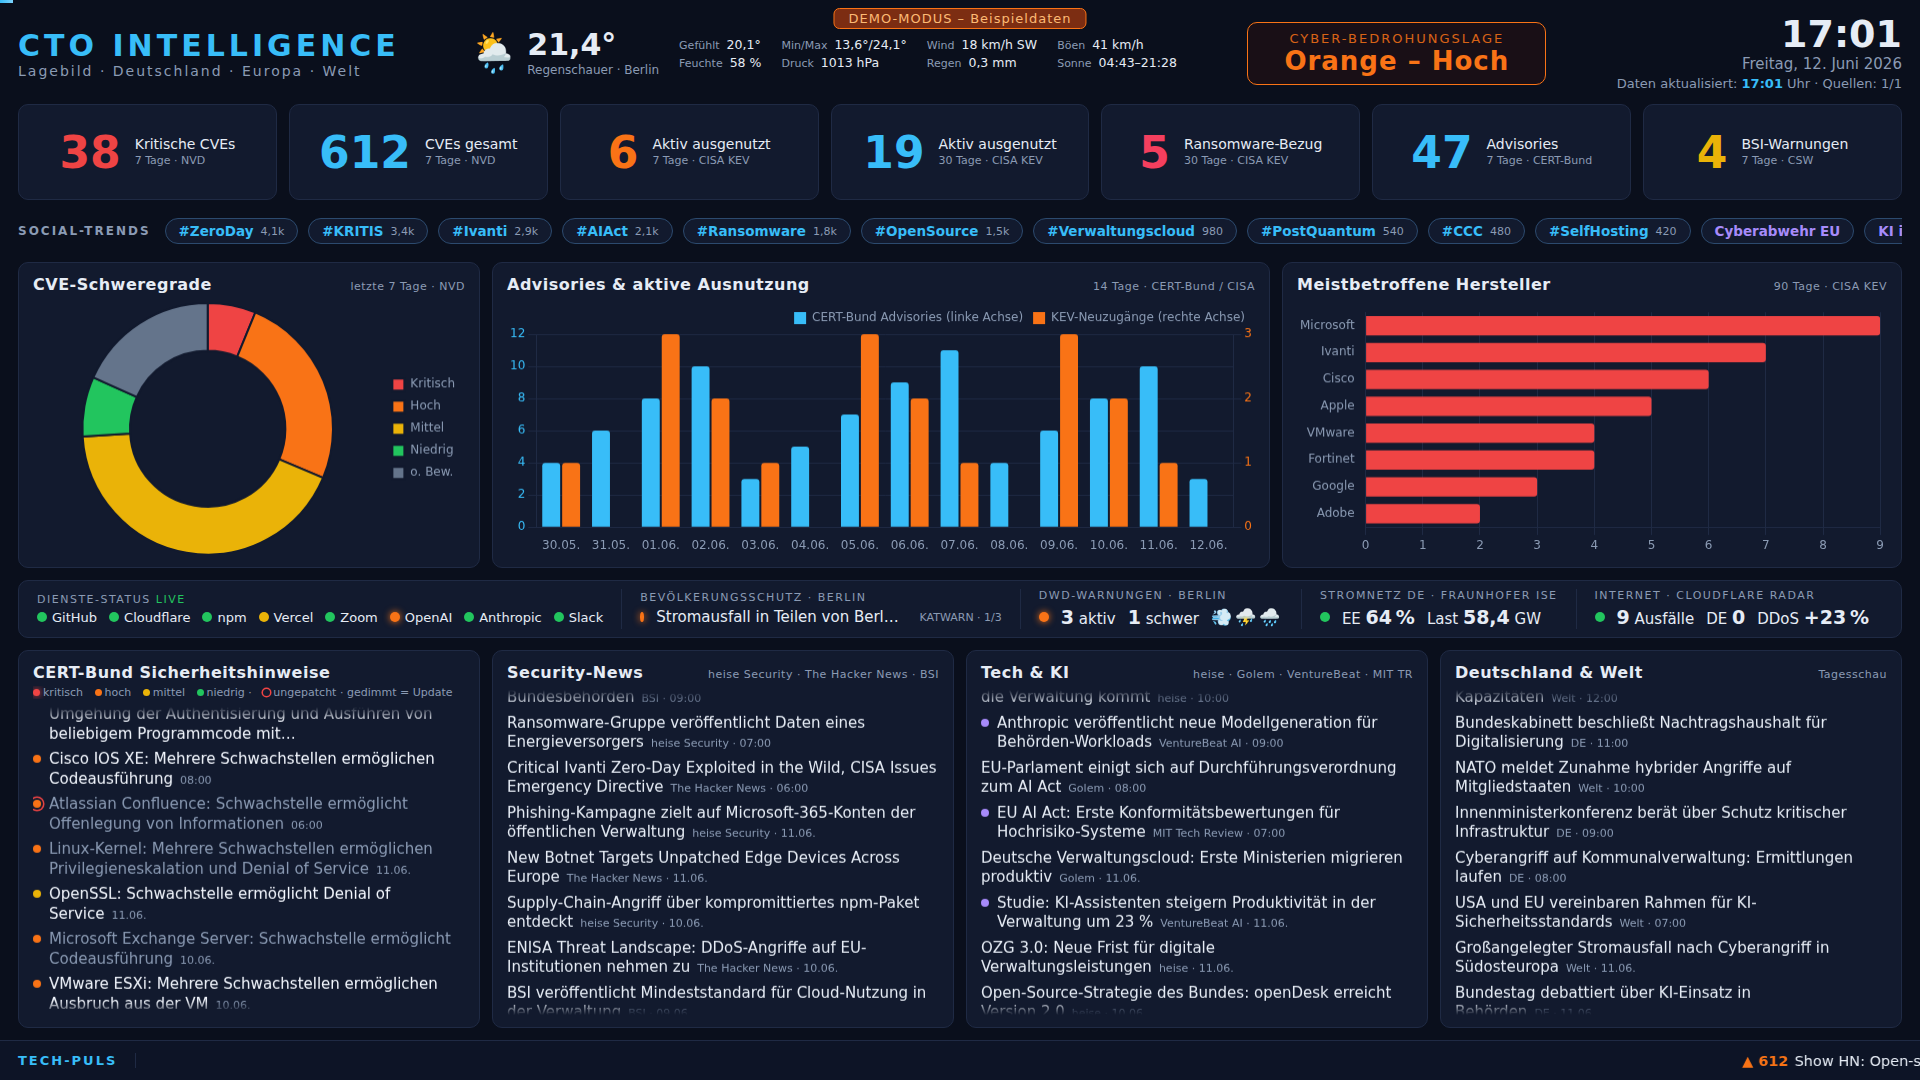
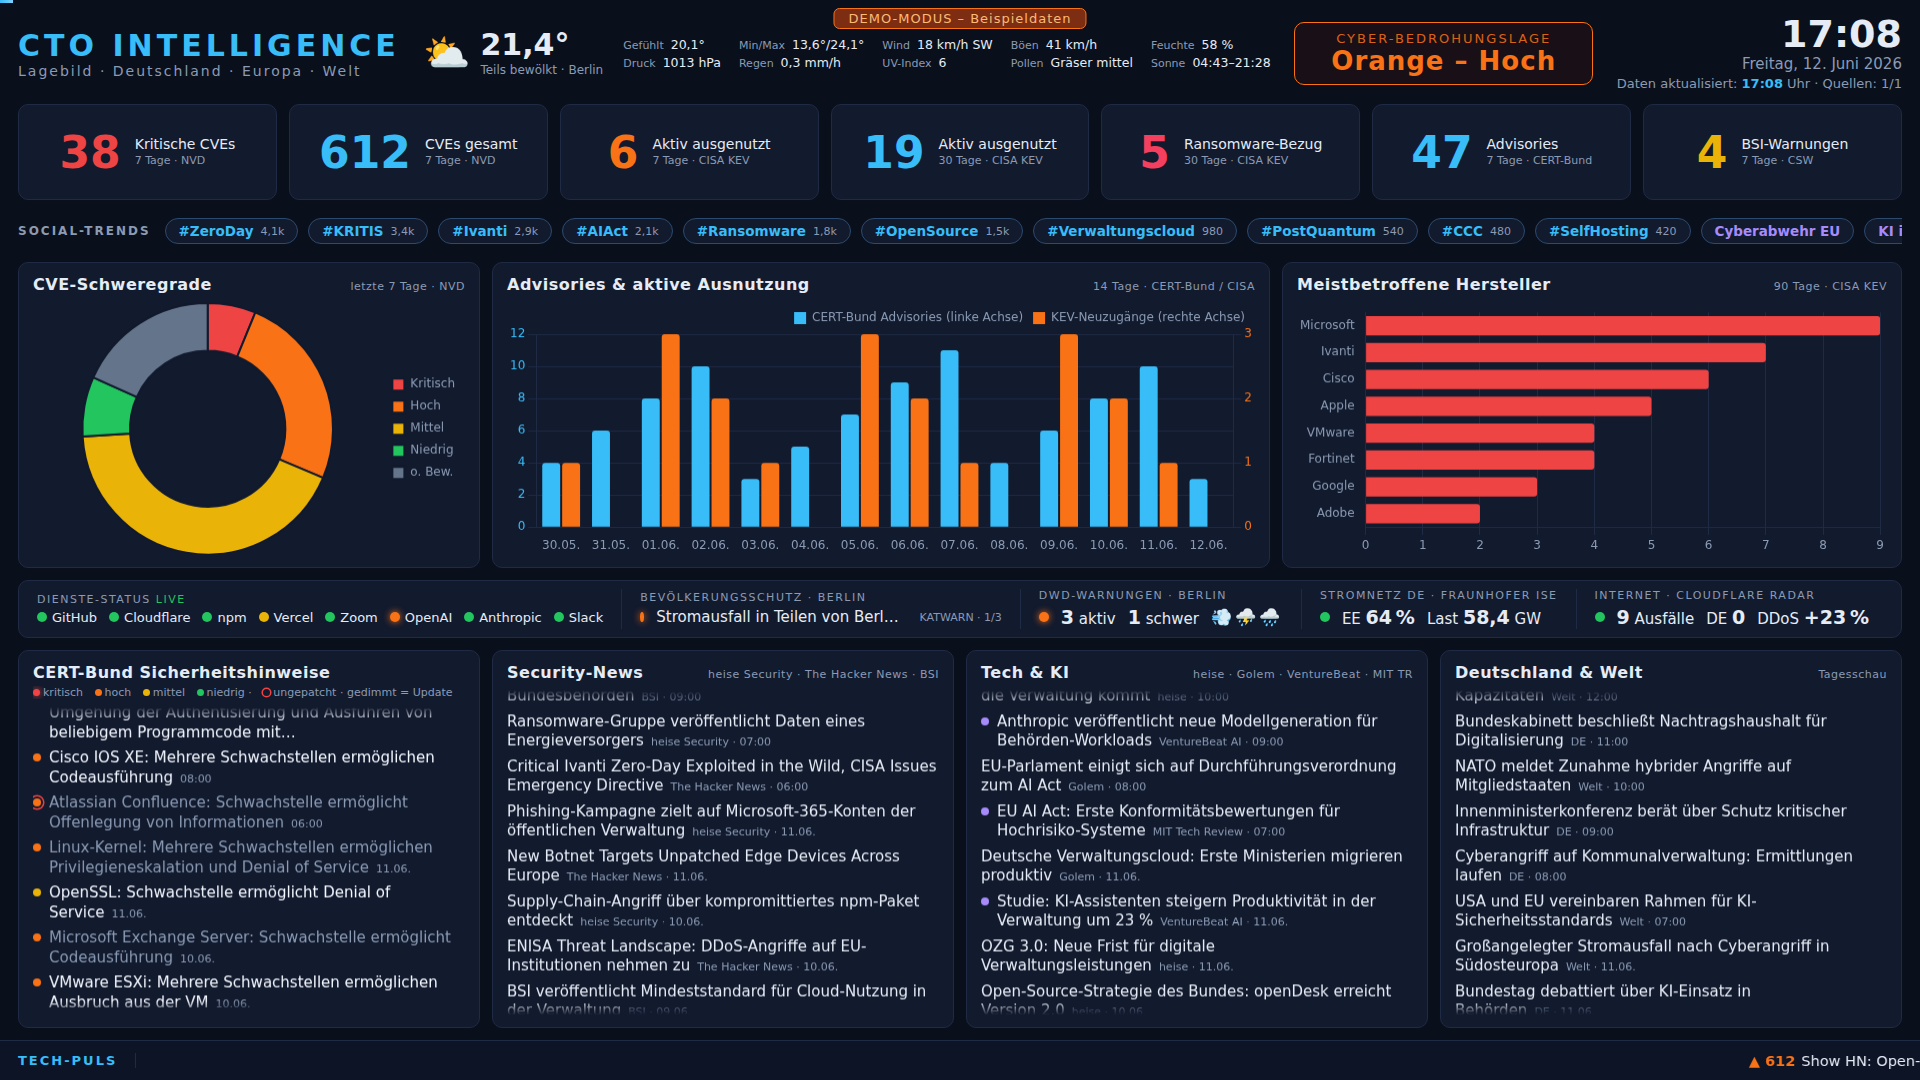
Wetterblock auf DWD-Daten umgestellt, UV-Index und Pollenflug ergänzt
- Messwerte jetzt von amtlichen DWD-Stationen via BrightSky-API statt
  Open-Meteo-Modellwerten; Stationsname im Tooltip
- Gefühlte Temperatur aus Temperatur/Feuchte/Wind berechnet
  (Apparent-Temperature-Formel)
- UV-Index (uvi.json) und Pollenflug-Gefahrenindex (s31fg.json) direkt
  vom DWD-OpenData-Server, Region/Stadt per Env konfigurierbar
- Tages-Min/Max und Sonnenzeiten weiterhin von Open-Meteo (BrightSky
  liefert keine); Zusatzwerte fallen einzeln und folgenlos aus
- WBI nicht angebunden: kein offizieller maschinenlesbarer Endpunkt

https://claude.ai/code/session_01RQCW42bAu5rzETtTf6RSuo

diff --git a/src/fetchers.js b/src/fetchers.js
@@ -293,38 +293,93 @@ async function fetchCloudflareRadar() {
   return result;
 }
 
+/** Pollen-Belastungsstufen des DWD ("2-3" -> 2.5) */
+function pollenLevel(value) {
+  if (!value || value === '-1') return 0;
+  const parts = String(value).split('-').map(Number);
+  return parts.reduce((a, b) => a + b, 0) / parts.length;
+}
+
 /**
- * Aktuelles Wetter für Berlin über Open-Meteo (ohne Key).
- * Koordinaten per WEATHER_LAT/WEATHER_LON übersteuerbar.
+ * Wetterblock: amtliche DWD-Stationsmesswerte über BrightSky, ergänzt um
+ * UV-Index und Pollenflug direkt vom DWD (opendata.dwd.de) sowie
+ * Tages-Min/Max und Sonnenzeiten von Open-Meteo. Gefühlte Temperatur wird
+ * aus Temperatur, Feuchte und Wind berechnet (Apparent Temperature).
  */
 async function fetchWeather() {
   const lat = process.env.WEATHER_LAT || '52.52';
   const lon = process.env.WEATHER_LON || '13.41';
-  const url =
-    `https://api.open-meteo.com/v1/forecast?latitude=${lat}&longitude=${lon}` +
-    '&current=temperature_2m,apparent_temperature,relative_humidity_2m,precipitation,' +
-    'weather_code,wind_speed_10m,wind_gusts_10m,wind_direction_10m,pressure_msl,cloud_cover' +
-    '&daily=temperature_2m_max,temperature_2m_min,sunrise,sunset' +
-    '&timezone=Europe%2FBerlin&forecast_days=1';
-  const data = await fetchJson(url);
-  const c = data.current || {};
-  const d = data.daily || {};
-  return {
-    temp: c.temperature_2m ?? null,
-    feels: c.apparent_temperature ?? null,
-    humidity: c.relative_humidity_2m ?? null,
-    precip: c.precipitation ?? null,
-    code: c.weather_code ?? null,
-    windKmh: c.wind_speed_10m ?? null,
-    gustKmh: c.wind_gusts_10m ?? null,
-    windDir: c.wind_direction_10m ?? null,
-    pressure: c.pressure_msl ?? null,
-    cloud: c.cloud_cover ?? null,
-    tmax: d.temperature_2m_max?.[0] ?? null,
-    tmin: d.temperature_2m_min?.[0] ?? null,
-    sunrise: d.sunrise?.[0] ?? null,
-    sunset: d.sunset?.[0] ?? null,
+  const uvCity = process.env.WEATHER_UV_CITY || 'Berlin';
+  const pollenRegion = process.env.WEATHER_POLLEN_REGION || 'Berlin';
+
+  // Messwerte sind Pflicht – ohne sie gilt die Quelle als gestört
+  const cw = await fetchJson(`https://api.brightsky.dev/current_weather?lat=${lat}&lon=${lon}`);
+  const w = cw.weather || {};
+  const tempC = w.temperature ?? null;
+  const windKmh = w.wind_speed_10 ?? null;
+  let feels = null;
+  if (tempC !== null && w.relative_humidity != null && windKmh !== null) {
+    const e = (w.relative_humidity / 100) * 6.105 * Math.exp((17.27 * tempC) / (237.7 + tempC));
+    feels = Math.round((tempC + 0.33 * e - 0.7 * (windKmh / 3.6) - 4) * 10) / 10;
+  }
+  const result = {
+    temp: tempC,
+    feels,
+    humidity: w.relative_humidity ?? null,
+    precip: w.precipitation_60 ?? w.precipitation_30 ?? null,
+    icon: w.icon || w.condition || null,
+    windKmh,
+    gustKmh: w.wind_gust_speed_10 ?? null,
+    windDir: w.wind_direction_10 ?? null,
+    pressure: w.pressure_msl ?? null,
+    cloud: w.cloud_cover ?? null,
+    station: cw.sources?.[0]?.station_name || null,
+    tmax: null,
+    tmin: null,
+    sunrise: null,
+    sunset: null,
+    uv: null,
+    pollen: null,
   };
+
+  // Zusatzwerte sind optional und fallen einzeln aus
+  const extras = await Promise.allSettled([
+    fetchJson(
+      `https://api.open-meteo.com/v1/forecast?latitude=${lat}&longitude=${lon}` +
+        '&daily=temperature_2m_max,temperature_2m_min,sunrise,sunset' +
+        '&timezone=Europe%2FBerlin&forecast_days=1'
+    ),
+    fetchJson('https://opendata.dwd.de/climate_environment/health/alerts/uvi.json'),
+    fetchJson('https://opendata.dwd.de/climate_environment/health/alerts/s31fg.json'),
+  ]);
+
+  if (extras[0].status === 'fulfilled') {
+    const d = extras[0].value.daily || {};
+    result.tmax = d.temperature_2m_max?.[0] ?? null;
+    result.tmin = d.temperature_2m_min?.[0] ?? null;
+    result.sunrise = d.sunrise?.[0] ?? null;
+    result.sunset = d.sunset?.[0] ?? null;
+  }
+  if (extras[1].status === 'fulfilled') {
+    const entry = (extras[1].value.content || []).find((c) =>
+      (c.city || '').toLowerCase().includes(uvCity.toLowerCase())
+    );
+    result.uv = entry?.forecast?.today ?? null;
+  }
+  if (extras[2].status === 'fulfilled') {
+    const region = (extras[2].value.content || []).find((c) =>
+      `${c.region_name} ${c.partregion_name}`.toLowerCase().includes(pollenRegion.toLowerCase())
+    );
+    if (region?.Pollen) {
+      const top = Object.entries(region.Pollen)
+        .map(([type, v]) => ({ type, level: pollenLevel(v.today) }))
+        .filter((p) => p.level > 0)
+        .sort((a, b) => b.level - a.level)
+        .slice(0, 2);
+      result.pollen = { max: top[0]?.level ?? 0, top };
+    }
+  }
+  return result;
 }
 
 module.exports = {

diff --git a/public/app.js b/public/app.js
@@ -86,25 +86,29 @@ function dwdIcon(headline) {
   return '⚠';
 }
 
-/** WMO-Wettercode (Open-Meteo) -> Icon und deutsche Beschreibung */
-function weatherCode(code) {
-  const map = [
-    [[0], '☀', 'Klar'],
-    [[1], '🌤', 'Überwiegend klar'],
-    [[2], '⛅', 'Teils bewölkt'],
-    [[3], '☁', 'Bedeckt'],
-    [[45, 48], '🌫', 'Nebel'],
-    [[51, 53, 55, 56, 57], '🌦', 'Nieselregen'],
-    [[61, 63, 65, 66, 67], '🌧', 'Regen'],
-    [[71, 73, 75, 77], '🌨', 'Schneefall'],
-    [[80, 81, 82], '🌦', 'Regenschauer'],
-    [[85, 86], '🌨', 'Schneeschauer'],
-    [[95, 96, 99], '⛈', 'Gewitter'],
-  ];
-  for (const [codes, icon, label] of map) {
-    if (codes.includes(code)) return { icon, label };
-  }
-  return { icon: '🌡', label: '' };
+/** BrightSky-/DWD-Wetterzustand -> Icon und deutsche Beschreibung */
+const WEATHER_ICONS = {
+  'clear-day': ['☀', 'Klar'],
+  'clear-night': ['🌙', 'Klar'],
+  'partly-cloudy-day': ['⛅', 'Teils bewölkt'],
+  'partly-cloudy-night': ['☁', 'Teils bewölkt'],
+  cloudy: ['☁', 'Bedeckt'],
+  fog: ['🌫', 'Nebel'],
+  wind: ['💨', 'Windig'],
+  rain: ['🌧', 'Regen'],
+  sleet: ['🌨', 'Schneeregen'],
+  snow: ['🌨', 'Schnee'],
+  hail: ['🌨', 'Hagel'],
+  thunderstorm: ['⛈', 'Gewitter'],
+  dry: ['🌡', 'Trocken'],
+};
+
+const POLLEN_LEVELS = ['keine', 'gering', 'mittel', 'hoch'];
+function pollenText(level) {
+  if (level <= 0) return 'keine';
+  const lower = POLLEN_LEVELS[Math.floor(level)] || 'hoch';
+  const upper = POLLEN_LEVELS[Math.ceil(level)] || 'hoch';
+  return lower === upper ? lower : `${lower}–${upper}`;
 }
 
 function windCompass(deg) {
@@ -115,14 +119,26 @@ function windCompass(deg) {
 function renderWeather(w) {
   el('weather').classList.toggle('hidden', !w || w.temp === null);
   if (!w || w.temp === null) return;
-  const { icon, label } = weatherCode(w.code);
+  const [icon, label] = WEATHER_ICONS[w.icon] || ['🌡', ''];
   const deg = (v) => (v === null || v === undefined ? '–' : `${v.toLocaleString('de-DE', { maximumFractionDigits: 1 })}°`);
   const hhmm = (iso) =>
     iso ? new Date(iso).toLocaleTimeString('de-DE', { hour: '2-digit', minute: '2-digit' }) : '–';
   el('weather-icon').textContent = icon;
   el('weather-temp').textContent = deg(w.temp);
   el('weather-desc').textContent = `${label ? label + ' · ' : ''}Berlin`;
-  const item = (l, v) => `<div class="wd-item"><span class="wd-label">${l}</span><span class="wd-value">${v}</span></div>`;
+  el('weather').title = w.station
+    ? `DWD-Station ${w.station} (via BrightSky) · UV & Pollen: DWD`
+    : 'DWD/BrightSky';
+  const pollen = w.pollen
+    ? w.pollen.top.length
+      ? `${esc(w.pollen.top[0].type)} ${pollenText(w.pollen.top[0].level)}`
+      : 'keine'
+    : '–';
+  const pollenTitle = w.pollen?.top
+    ?.map((p) => `${p.type}: ${pollenText(p.level)}`)
+    .join(', ');
+  const item = (l, v, title) =>
+    `<div class="wd-item"${title ? ` title="${esc(title)}"` : ''}><span class="wd-label">${l}</span><span class="wd-value">${v}</span></div>`;
   el('weather-details').innerHTML =
     item('Gefühlt', deg(w.feels)) +
     item('Min/Max', `${deg(w.tmin)}/${deg(w.tmax)}`) +
@@ -130,7 +146,9 @@ function renderWeather(w) {
     item('Böen', `${Math.round(w.gustKmh ?? 0)} km/h`) +
     item('Feuchte', `${Math.round(w.humidity ?? 0)} %`) +
     item('Druck', `${Math.round(w.pressure ?? 0)} hPa`) +
-    item('Regen', `${(w.precip ?? 0).toLocaleString('de-DE')} mm`) +
+    item('Regen', `${(w.precip ?? 0).toLocaleString('de-DE')} mm/h`) +
+    item('UV-Index', w.uv ?? '–') +
+    item('Pollen', pollen, pollenTitle) +
     item('Sonne', `${hhmm(w.sunrise)}–${hhmm(w.sunset)}`);
 }
 

diff --git a/src/demo-data.js b/src/demo-data.js
@@ -183,16 +183,19 @@ function buildDemoDashboard() {
         feels: 20.1,
         humidity: 58,
         precip: 0.3,
-        code: 80,
+        icon: 'partly-cloudy-day',
         windKmh: 18,
         gustKmh: 41,
         windDir: 240,
         pressure: 1013.2,
         cloud: 65,
+        station: 'Berlin-Tempelhof',
         tmax: 24.1,
         tmin: 13.6,
         sunrise: new Date().toISOString().slice(0, 10) + 'T04:43',
         sunset: new Date().toISOString().slice(0, 10) + 'T21:28',
+        uv: 6,
+        pollen: { max: 2, top: [{ type: 'Gräser', level: 2 }, { type: 'Roggen', level: 1 }] },
       },
       cloudflare: { outages24h: 9, outagesDe: 0, ddosTrendPct: 23 },
       socialTrends: [

diff --git a/public/style.css b/public/style.css
@@ -107,8 +107,8 @@ body {
 .weather-desc { font-size: 12px; color: var(--text-dim); margin-top: 3px; white-space: nowrap; }
 .weather-details {
   display: grid;
-  grid-template-columns: repeat(4, auto);
-  gap: 3px 20px;
+  grid-template-columns: repeat(5, auto);
+  gap: 3px 18px;
 }
 .wd-item { display: flex; gap: 7px; align-items: baseline; font-size: 12.5px; white-space: nowrap; }
 .wd-label { color: var(--text-dim); font-size: 11px; }

diff --git a/src/aggregator.js b/src/aggregator.js
@@ -158,7 +158,7 @@ const SOURCES = [
   },
   {
     id: 'weather',
-    name: 'Wetter Berlin (Open-Meteo)',
+    name: 'Wetter Berlin (DWD/BrightSky, UV & Pollen DWD)',
     ttl: 15 * MIN,
     fetch: fetchWeather,
   },

diff --git a/README.md b/README.md
@@ -71,11 +71,17 @@ Quellen (keine API-Schlüssel erforderlich):
 - **Stromnetz Deutschland** (15 min TTL): EE-Anteil-Ampel und aktuelle
   Netzlast über die [Energy-Charts-API](https://api.energy-charts.info/)
   des Fraunhofer ISE (ohne Key, KRITIS-Indikator).
-- **Wetter Berlin** (Kopfzeile, 15 min TTL): aktuelle Messwerte über die
-  [Open-Meteo-API](https://open-meteo.com/) (ohne Key) – Temperatur,
-  gefühlte Temperatur, Zustand mit Icon, Min/Max, Wind/Böen mit Richtung,
-  Luftfeuchte, Luftdruck, Niederschlag, Sonnenauf-/-untergang. Koordinaten
-  über `WEATHER_LAT`/`WEATHER_LON` änderbar (Standard Berlin-Mitte).
+- **Wetter Berlin** (Kopfzeile, 15 min TTL): amtliche DWD-Stationsmesswerte
+  über die [BrightSky-API](https://brightsky.dev/) (ohne Key) – Temperatur,
+  Zustand mit Icon, Wind/Böen mit Richtung, Luftfeuchte, Luftdruck,
+  Niederschlag; gefühlte Temperatur wird daraus berechnet. Ergänzt um
+  **UV-Index** (`uvi.json`) und **Pollenflug-Gefahrenindex** (`s31fg.json`)
+  direkt vom [DWD-OpenData-Server](https://opendata.dwd.de/climate_environment/health/alerts/)
+  sowie Tages-Min/Max und Sonnenzeiten von Open-Meteo. Konfigurierbar über
+  `WEATHER_LAT`/`WEATHER_LON`, `WEATHER_UV_CITY`, `WEATHER_POLLEN_REGION`.
+  Hinweis: Der DWD-Waldbrandgefahrenindex (WBI) hat keinen offiziellen
+  maschinenlesbaren Endpunkt (nur CDC-Rasterdaten bzw. ArcGIS-Mirror) und
+  ist daher nicht angebunden.
 - **Cloudflare Radar** (optional, 10 min TTL): gemeldete Internet-Ausfälle
   der letzten 24 h (weltweit und Deutschland) sowie der Trend des globalen
   Layer-7-DDoS-Volumens gegenüber dem 7-Tage-Schnitt. Erfordert einen
